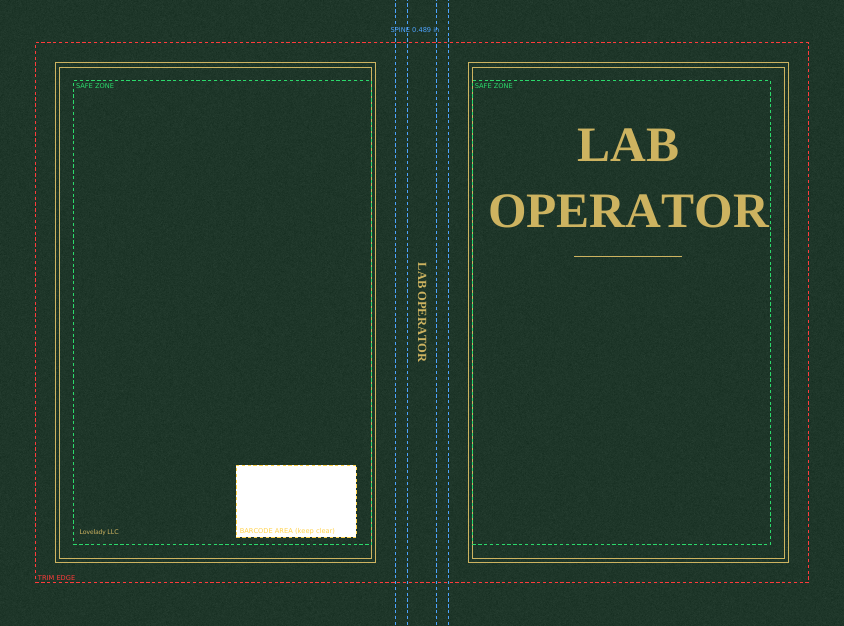
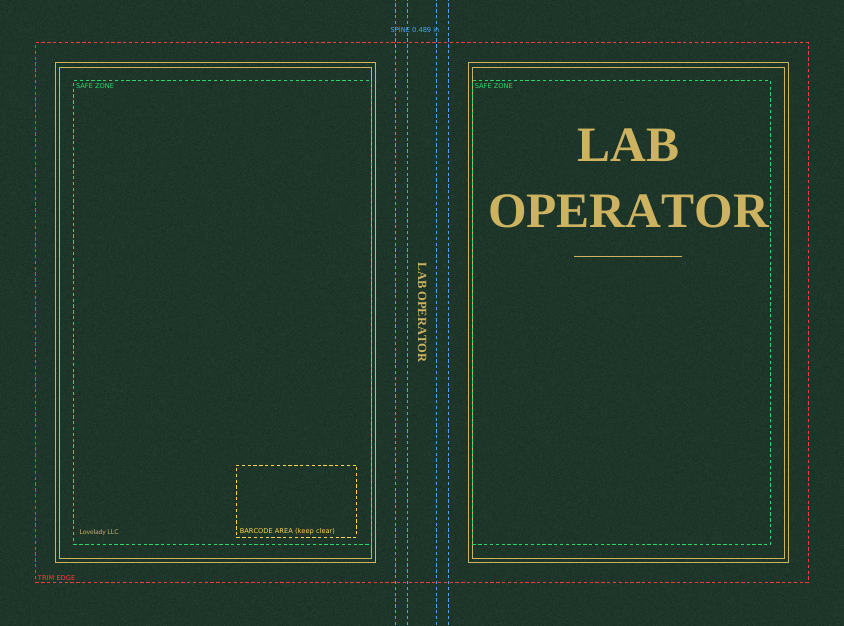
Jarvis notes and feedback summary sync

Changed region(s): [[0.2773, 0.7284, 0.4313, 0.8802]]

diff --git a/memory/inbox/pi-status.md b/memory/inbox/pi-status.md
@@ -2,7 +2,7 @@
 Freshness = the git commit time of this file. Ages below are counted at the moment of the snapshot.
 
 ## Pi
-- up 1 week, 4 days, 8 hours, 0 minutes; temp 41.1'C; throttled flags 0x0 (0x0 is clean); memory 59%; disk 10%
+- up 1 week, 4 days, 8 hours, 14 minutes; temp 43.3'C; throttled flags 0x0 (0x0 is clean); memory 59%; disk 10%
 
 ## Services
 - active: market-agent, phone-voice, tailscaled, docker, hub-dashboard, hub-devices, hub-kdp, hub-lights, hub-memlog, hub-oled, hub-outage, hub-satellite, hub-voice, hub-watchdog
@@ -11,14 +11,14 @@ Freshness = the git commit time of this file. Ages below are counted at the mome
 - containers: openwakeword Up 6 days; whisper Up 6 days (healthy); piper Up 6 days (healthy); pihole Up 23 hours (healthy); homeassistant Up 17 hours
 
 ## Sync and schedule
-- Pi repo copy at: a893243 3 minutes ago: KDP keyword plan v3 from search-bar scan
+- Pi repo copy at: 7009f46 5 minutes ago: KDP: remove barcode box (publish without ISBN), queue 050
 - last notes sync result: notes pushed to the repo
 - cron jobs (script names): crew-update.sh, market-watchdog, market-supervisor, market-lab, memory_sync.sh, starship-alerts, kalshi-data-sync, task-queue
 
 ## Markets agent (practice money)
 - agent data last written: 0 min ago; mode shown by the agent: ?; live-run flags: {"live_run_active": false, "last_run_live": false}
-- supervisor report (52 min ago), first lines:
-    MARKET AGENT PROGRESS  Thu 05 Nov 18:07
+- supervisor report (7 min ago), first lines:
+    MARKET AGENT PROGRESS  Thu 05 Nov 19:07
     
     1. ALIVE
       OK    service market-agent is active
@@ -26,26 +26,26 @@ Freshness = the git commit time of this file. Ages below are counted at the mome
       OK    per-second recording last wrote 0 min ago
     
     2. LEARNING (rounds turned into lessons)
-      OK    79 of the last 96 rounds were settled by Kalshi and logged
-      OK    +4 new written lessons since the last check (295 total)
-      OK    entry_stats.json updated 5 min ago
-      OK    exit_rules.json updated 14 min ago
-      OK    patterns.json updated 13 min ago
+      OK    83 of the last 96 rounds were settled by Kalshi and logged
+      OK    +4 new written lessons since the last check (299 total)
+      OK    entry_stats.json updated 4 min ago
+      OK    exit_rules.json updated 10 min ago
+      OK    patterns.json updated 9 min ago
       OK    learn_report.json updated 6 min ago
     
     3. PRACTICE SCOREBOARD (fake money, after fees)
-            v_x96220861  +606.38 over   56 rounds, wins 54%   (-13.13 over +4 rounds since last check)
-            v_x60222031  +409.61 over   56 rounds, wins 57%   (-36.58 over +4 rounds since last check)
-            v_x88221261  +397.69 over   63 rounds, wins 29%   (-6.51 over +4 rounds since last check)
-            v_x64216771  +368.56 over   91 rounds, wins 44%   (-21.87 over +4 rounds since last check)
-            v_x16217721  +353.33 over   71 rounds, wins 32%   (-44.55 over +4 rounds since last check)
-            v_x32221881  +311.17 over   55 rounds, wins 45%   (-20.66 over +4 rounds since last check)
-            v_x52220781  +238.17 over   67 rounds, wins 30%   (-6.61 over +4 rounds since last check)
-            v_x80218932  +234.04 over   75 rounds, wins 55%   (+25.08 over +4 rounds since last check)
-            v_x96220872  +187.27 over   56 rounds, wins 39%   (-52.47 over +4 rounds since last check)
+            v_x96220861  +574.73 over   60 rounds, wins 52%   (-31.65 over +4 rounds since last check)
+            v_x88221261  +386.70 over   67 rounds, wins 27%   (-10.99 over +4 rounds since last check)
+            v_x60222031  +379.54 over   60 rounds, wins 57%   (-30.07 over +4 rounds since last check)
+            v_x64216771  +323.51 over   95 rounds, wins 44%   (-45.05 over +4 rounds since last check)
+            v_x16217721  +253.81 over   75 rounds, wins 31%   (-99.52 over +4 rounds since last check)
+            v_x32221881  +249.53 over   59 rounds, wins 44%   (-61.64 over +4 rounds since last check)
+            v_x80218932  +234.51 over   79 rounds, wins 54%   (+0.47 over +4 rounds since last check)
+            v_x52220781  +223.90 over   71 rounds, wins 28%   (-14.27 over +4 rounds since last check)
+            v_hold     +193.77 over  171 rounds, wins 45%   (+18.16 over +4 rounds since last check)
 
 ## Jarvis (phone voice), last 24 h
-- turns: 71; errors: 0; ignored blips: 10; last activity: 5.1 h ago
+- turns: 71; errors: 0; ignored blips: 10; last activity: 5.3 h ago
 - hang-ups: you ended it x9, quiet x2
 - time to first words: avg 1.6s, slowest 4.2s over 69 answers
 

diff --git a/memory/inbox/queue-results.md b/memory/inbox/queue-results.md
@@ -1,37 +1,4 @@
-0' \
---snd-command 'aplay -D plughw:2,0 -r 22050 -c 1 -f S16_LE -t raw' \
---wake-uri 'tcp://127.0.0.1:10400' \
---wake-word-name 'hey_jarvis' \
---detect-command 'bash -c "echo idle > /tmp/hub-state"' \
---detection-command 'bash -c "pkill -x aplay; echo listening > /tmp/hub-state; curl -s -m 2 -X POST -d wake http://127.0.0.1:8080/event/wake > /dev/null"' \
---stt-stop-command 'bash -c "echo thinking > /tmp/hub-state"' \
---transcript-command 'bash -c "curl -s -m 2 -X POST --data-binary @- http://127.0.0.1:8080/event/transcript > /dev/null"' \
---synthesize-command 'bash -c "curl -s -m 2 -X POST --data-binary @- http://127.0.0.1:8080/event/synthesize > /dev/null"' \
---tts-start-command 'bash -c "echo speaking > /tmp/hub-state"' \
---tts-stop-command 'bash -c "echo idle > /tmp/hub-state; curl -s -m 2 -X POST -d done http://127.0.0.1:8080/event/done > /dev/null"' \
---error-command 'bash -c "echo idle > /tmp/hub-state"'
-== wyoming-satellite version / options
-CHANGELOG.md
-docker
-docker-compose.yml
-Dockerfile
-docs
-etc
-examples
-installer
-LICENSE.md
-mypy.ini
-pylintrc
-pyproject.toml
-README.md
-run-hub.sh
-run-hub.sh.bak
-run-hub.sh.bak2
-run-hub.sh.bak-alexa
-run-hub.sh.bak-lock
-script
-setup.cfg
-  --mic-uri MIC_URI     URI of Wyoming microphone service
+service
   --mic-command MIC_COMMAND
   --mic-command-rate MIC_COMMAND_RATE
   --mic-command-width MIC_COMMAND_WIDTH
@@ -581,5 +548,25 @@ drwxrwxr-x 10 kylarlovelady kylarlovelady    4096 Nov  5 17:50 ..
 ## 2026-11-05 18:52:01 tasks/queue/049-kdp-keyword-scan-bg.sh
 ```
 started pid 3293782
+(exit 0)
+```
+
+## 2026-11-05 19:13:02 tasks/queue/050-kdp-no-barcode-box.sh
+```
+== process-operator-a FAILS: none | spine 0.489
+== process-operator-b FAILS: none | spine 0.489
+== process-operator-c FAILS: none | spine 0.489
+== process-operator-e FAILS: none | spine 0.489
+== lab-operator-a FAILS: none | spine 0.489
+== lab-operator-b FAILS: none | spine 0.489
+== lab-operator-c FAILS: none | spine 0.489
+== lab-operator-e FAILS: none | spine 0.489
+sheet done
+-rw-rw-r-- 1 kylarlovelady kylarlovelady 5282832 Nov  5 19:13 /home/kylarlovelady/kdp-studio/books/lab-operator-a/out/coverg.pdf
+-rw-rw-r-- 1 kylarlovelady kylarlovelady 5262157 Nov  5 19:13 /home/kylarlovelady/kdp-studio/books/lab-operator-a/out/cover.pdf
+-rw-rw-r-- 1 kylarlovelady kylarlovelady  113757 Nov  5 19:13 /home/kylarlovelady/kdp-studio/books/lab-operator-a/out/interior.pdf
+-rw-rw-r-- 1 kylarlovelady kylarlovelady 5282830 Nov  5 19:13 /home/kylarlovelady/kdp-studio/books/process-operator-a/out/coverg.pdf
+-rw-rw-r-- 1 kylarlovelady kylarlovelady 5262158 Nov  5 19:13 /home/kylarlovelady/kdp-studio/books/process-operator-a/out/cover.pdf
+-rw-rw-r-- 1 kylarlovelady kylarlovelady  113761 Nov  5 19:13 /home/kylarlovelady/kdp-studio/books/process-operator-a/out/interior.pdf
 (exit 0)
 ```
